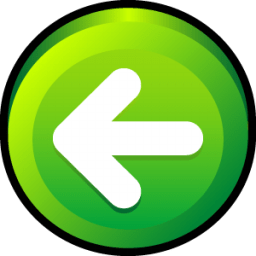
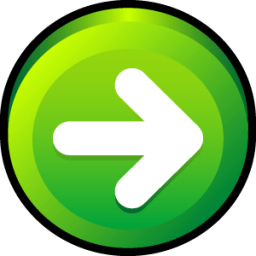
grid layout and images positioning ok, button positions need work

Changed region(s): [[0.2188, 0.5938, 0.7812, 0.8438], [0.2188, 0.25, 0.7812, 0.5]]

diff --git a/main.py b/main.py
@@ -187,21 +187,33 @@ class CustomScreen(Screen):
     self.curr_dir = curr_dir = getcwd()
     self.poses_folder = join(curr_dir, "user_poses")
     print("self.curr_dir: ", self.curr_dir)
-    self.cancel = BooleanProperty(False)
+    self.cancel = False
     super().__init__(**kwargs)
 
   def select_file(self):
-    system(f"mkdir -p {self.poses_folder}")
+    system(f"mkdir {self.poses_folder}")
     filechooser.open_file(on_selection = self.selected)
     
   def selected(self, selection):
+    # print("len(selection) = ", len(selection))
     if(len(selection) == 0):
       self.cancel = True 
       return
+    print("self.cancel", self.cancel)
     globals()['path_selected'] = selection[0]
     print("globals()['path_selected']: ", globals()["path_selected"])
     
 class PoseSequenceItem(Widget):
+  def exit_button(self):
+    print("\n\nEXIT button pressed!\n\n")
+
+  def left_button(self):
+    print("\n\nLEFT button pressed!\n\n")
+
+  def right_button(self):
+    print("\n\nRIGHT button pressed!\n\n")
+    # for children in self.children:
+    #     print(children)
   pass
 
 class ConfirmScreen(Screen):
@@ -210,7 +222,7 @@ class ConfirmScreen(Screen):
 
     super(ConfirmScreen, self).__init__(**kwargs)
     self.filename=""
-    self.curr_dir = curr_dir = getcwd()
+    self.curr_dir = getcwd()
     self.new_filename=""
     self.display_label=None
     self.posesList = []
@@ -222,6 +234,7 @@ class ConfirmScreen(Screen):
     #  height=30,
 
     path_selected = globals()['path_selected']
+    print("path_selected: ", path_selected)
     pathIsFolder = os.path.isdir(path_selected)
     
     if(pathIsFolder):
@@ -245,12 +258,14 @@ class ConfirmScreen(Screen):
       filename, file_type = getFileTypeAndName(self.file_label)
       # self.display_label.text = f'[color=121212]{self.new_filename}.{file_type}'
 
-    grid_layout = GridLayout(rows=1, cols=num_poses, orientation='lr-tb', padding=5)
-    
+    # grid_layout = GridLayout(rows=1, orientation='lr-tb', padding=5, size_hint=(1,0.7), pos_hint={'center_x': 0.5,'center_y': 0.5})
+    # self.add_widget(grid_layout)
+
     for i in range(num_poses):
       pose_item = PoseSequenceItem()
-      grid_layout.add_widget(pose_item)
-    
+      pose_item.ids.pose_image.source = self.posesList[i]
+      self.ids.grid_layout.add_widget(pose_item)
+
     textbox = TextInput(size_hint=(0.3, 0.05), pos_hint={'center_x': 0.5, 'center_y': 0.7}, cursor_blink=True, multiline=False)
     textbox.bind(on_text_validate=on_enter)
     self.add_widget(textbox)
@@ -268,16 +283,7 @@ class ConfirmScreen(Screen):
     # self.add_widget(self.display_image)
     # self.add_widget(self.display_label)
 
-  def exit_button(self):
-    print("\n\nEXIT button pressed!\n\n")
-
-  def left_button(self):
-    print("\n\nLEFT button pressed!\n\n")
-
-  def right_button(self):
-    print("\n\nRIGHT button pressed!\n\n")
-    # for children in self.children:
-    #     print(children)
+  
   
   def confirmed(self):
     src = globals()['path_selected']
@@ -289,6 +295,7 @@ class ConfirmScreen(Screen):
       
     # removing old filename from path
     filename, filetype = getFileTypeAndName(src[0]) # = src_split_list.pop(-1)
+    pose_seq_dir = filename
     # join_char = "\\"
     # src_path = join_char.join(src_split_list)
     
@@ -297,7 +304,10 @@ class ConfirmScreen(Screen):
 
     # print("   src_path  : ", src_path)
     system(f"mkdir {self.curr_dir}\\user_poses\\{filename}")
-    dest.append(f"{self.curr_dir}\\user_poses\\{filename}\\{filename}.{filetype}")
+    if(len(self.posesList) == 1):
+      dest.append(f"{self.curr_dir}\\user_poses\\{filename}\\{filename}.{filetype}")
+    else:
+      dest.append(f"{self.curr_dir}\\user_poses\\{pose_seq_dir}")
       
     # print("src: ", src)
     for j in range(len(dest)):
@@ -322,6 +332,7 @@ def getFileTypeAndName(fileSrc):
   print("src_split_list", src_split_list)
   filenameAndType = src_split_list[-1]
   filename_list = filenameAndType.split('.')
+  print("filename_list", filename_list)
   print(filename_list)
   filetype = filename_list[-1]
   filename = filename_list[0]
